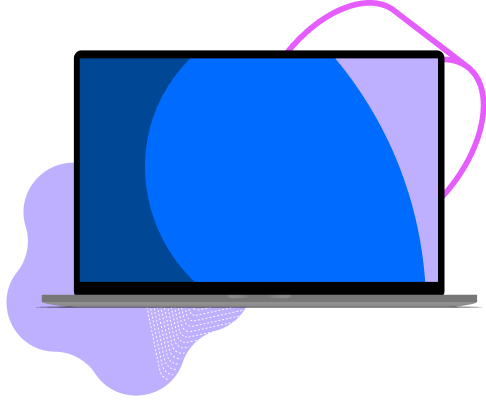
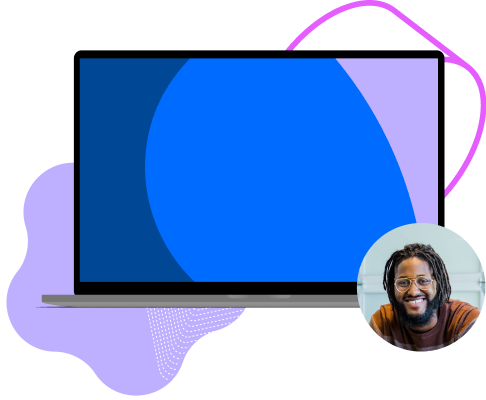
Adding hero and form component, and Fixed wrapper and variables styles

Changed region(s): [[0.7099, 0.54, 1.0, 0.9]]

diff --git a/css/variables.css b/css/variables.css
@@ -3,7 +3,8 @@
   --primary: #006bff;
   --black: #000000;
   --white: #ffffff;
-  --gray: #fbfbfb;
+  --gray-bg: #fbfbfb;
+  --gray: #cecece;
   /* Fonts */
   --Inter: "Inter", sans-serif;
   /* Fonts for mobile devices */
@@ -18,6 +19,9 @@
   --body1-medium: 500 18px/29.12px var(--Inter);
   --body2: 400 16px/24px var(--Inter);
   --body2-semi: 700 16px/24px var(--Inter);
+  --body2-bold: 600 16px/32px var(--Inter);
+  --body3: 400 14px/24px var(--Inter);
+  --body3-semi: 700 14px/24px var(--Inter);
   --button: 700 14px/28px var(--Inter);
 
   /* Sizes */
@@ -27,6 +31,7 @@
   --padding-button: 0.625rem 1.5rem;
   --border-button: 2.5rem;
   --padding-hero: 4rem;
+  --w-self: 87px;
   --mb-hero-title: 2rem;
   --gap-1: 2.5rem;
   --border-footer: 2px dashed #cecece;
@@ -50,12 +55,10 @@
     --body1: 400 18px/36px var(--Inter);
     --body1-medium: 500 18px/36px var(--Inter);
     --body2: 400 16px/32px var(--Inter);
-    --body2-bold: 600 16px/32px var(--Inter);
-    --body3: 400 14px/24px var(--Inter);
-    --body3-semi: 700 14px/24px var(--Inter);
 
     --padding-hero: 8rem;
     --mb-hero-title: 4rem;
+    --w-self: 130px;
     --padding-footer: 8rem;
   }
 }

diff --git a/css/components/hero.css b/css/components/hero.css
@@ -1,0 +1,51 @@
+.hero {
+  display: flex;
+  flex-direction: column;
+  align-items: center;
+  justify-content: center;
+  gap: var(--lg);
+  padding-block-start: var(--padding-hero);
+  padding-block-end: var(--padding-hero);
+}
+.hero__info {
+  word-break: break-all;
+}
+.hero__img {
+  order: -1;
+}
+.hero__title {
+  font: var(--headingH1);
+  margin-block-start: var(--xlg);
+  margin-block-end: var(--xlg);
+}
+.hero__title span {
+  color: var(--primary);
+  display: block;
+}
+.hero__description {
+  margin-block-end: var(--lg);
+}
+@media screen and (min-width: 768px) {
+  .hero__info {
+    word-break: normal;
+  }
+}
+@media screen and (min-width: 992px) {
+  .hero {
+    flex-direction: row;
+  }
+  .hero__img {
+    order: initial;
+  }
+  .hero__info,
+  .hero__img {
+    flex: 1;
+  }
+  .hero_info {
+    max-inline-size: 44rem;
+  }
+  .hero__title {
+    margin-block-start: 0;
+    margin-block-end: 4rem;
+  }
+}

diff --git a/css/components/form.css b/css/components/form.css
@@ -1,0 +1,26 @@
+.form {
+  display: flex;
+  width: 100%;
+  position: relative;
+}
+.form__control {
+  display: block;
+  width: 100%;
+  border: 1px solid var(--gray);
+  padding: 0.6875rem var(--lg);
+  border-radius: var(--border-button);
+  font: var(--body3);
+}
+.form__control::placeholder {
+  color: var(--gray);
+}
+.form .button {
+  position: absolute;
+  right: 0;
+  top: 0;
+}
+@media screen and (min-width: 992px) {
+  .form {
+    width: 50%;
+  }
+}

diff --git a/css/config.css b/css/config.css
@@ -10,10 +10,22 @@ html {
   -moz-box-sizing: inherit;
   box-sizing: inherit;
 }
-body {
+* {
   margin: 0;
   padding: 0;
+}
+body {
   background-color: var(--white);
   color: var(--black);
   font: var(--body1);
+}
+.main {
+  display: flex;
+  flex-direction: column;
+}
+img {
+  display: block;
+  max-inline-size: 100%;
+  margin-inline-start: auto;
+  margin-inline-end: auto;
 }

diff --git a/index.html b/index.html
@@ -74,7 +74,6 @@
           </div>
           <div class="hero__img">
             <img src="./images/hero_img.png" alt="Computer" />
-            <img src="./images/person.png" alt="Person" />
           </div>
         </section>
         <section class="sponsor py-1">

diff --git a/css/components/wrapper.css b/css/components/wrapper.css
@@ -8,12 +8,6 @@
 
 @media screen and (min-width: 768px) {
   .wrapper {
-    max-inline-size: 1200px;
-  }
-}
-@media screen and (min-width: 992px) {
-  .wrapper {
-    padding-inline-start: 0;
-    padding-inline-end: 0;
+    max-inline-size: 73rem;
   }
 }

diff --git a/css/styles.css b/css/styles.css
@@ -6,3 +6,5 @@
 @import "./components/header.css";
 @import "./components/brand.css";
 @import "./components/button.css";
+@import "./components/hero.css";
+@import "./components/form.css";
